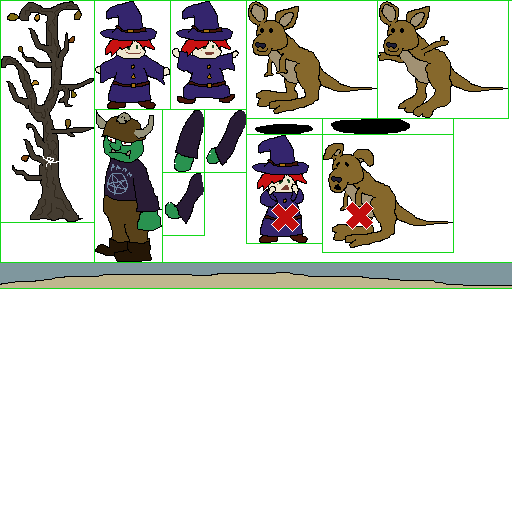
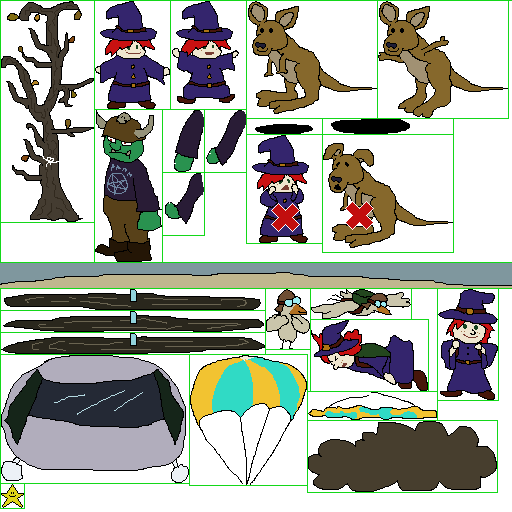
parachute contest

Changed region(s): [[0.0, 0.5625, 1.0, 1.0], [0.4688, 0.875, 0.5, 0.9688]]

diff --git a/src/js/games/MgParachute.js b/src/js/games/MgParachute.js
@@ -1,0 +1,271 @@
+/* MgParachute.js
+ * Minigame where you jump out of a helicopter.
+ */
+ 
+import { VideoOut } from "../VideoOut.js";
+import { InputManager } from "../InputManager.js";
+import { DataService } from "../DataService.js";
+ 
+export class MgParachute {
+  static getDependencies() {
+    return [VideoOut, InputManager, DataService];
+  }
+  constructor(videoOut, inputManager, dataService) {
+    this.videoOut = videoOut;
+    this.inputManager = inputManager;
+    this.dataService = dataService;
+    
+    this.updateDuringSplashes = false;
+    this.actorName = "CHICKEN";
+    this.contestName = "A PARACHUTE CONTEST";
+    
+    this.srcbits = this.dataService.getImage(MgParachute.IMAGE_NAME);
+    this.cbComplete = () => {};
+    const midX = this.videoOut.canvas.width >> 1;
+    this.chopperLeft = midX - (MgParachute.IMAGE_BOUNDS.chopper[2] >> 1);
+    this.chopperTop = 20;
+    this.bladeLeft = midX - (MgParachute.IMAGE_BOUNDS.blade1[2] >> 1);
+    this.bladeTop = this.chopperTop - (MgParachute.IMAGE_BOUNDS.blade1[3] >> 1);
+    this.bladeFrameTime = 100;
+    this.groundY = this.videoOut.canvas.height - 10;
+    const dotMidX = Math.floor((this.videoOut.canvas.width * 1) / 5);
+    const chickenMidX = Math.floor((this.videoOut.canvas.width * 4) / 5);
+    this.dotFallLeft = dotMidX - (MgParachute.IMAGE_BOUNDS.dotFall[2] >> 1);
+    this.dotStandLeft = dotMidX - (MgParachute.IMAGE_BOUNDS.dotStand[2] >> 1);
+    this.dotFallTop = this.chopperTop + 20;
+    this.dotDeployAdjustY = -((MgParachute.IMAGE_BOUNDS.dotStand[3] - MgParachute.IMAGE_BOUNDS.dotFall[3]) >> 1);
+    this.dotChuteOpenLeft = dotMidX - (MgParachute.IMAGE_BOUNDS.chuteOpen[2] >> 1);
+    this.dotChuteOpenOffset = (MgParachute.IMAGE_BOUNDS.dotStand[3] >> 1) - MgParachute.IMAGE_BOUNDS.chuteOpen[3];
+    this.dotChuteDefunctLeft = dotMidX - (MgParachute.IMAGE_BOUNDS.chuteDefunct[2] >> 1);
+    this.dotChuteDefunctTop = this.groundY - MgParachute.IMAGE_BOUNDS.chuteDefunct[3] + 5;
+    this.dotTopFatal = this.groundY - MgParachute.IMAGE_BOUNDS.dotFall[3];
+    this.dotTopLand = this.groundY - MgParachute.IMAGE_BOUNDS.dotStand[3] + 10;
+    this.chickenFallLeft = chickenMidX - (MgParachute.IMAGE_BOUNDS.chickenFall[2] >> 1);
+    this.chickenStandLeft = chickenMidX - (MgParachute.IMAGE_BOUNDS.chickenStand[2] >> 1);
+    this.chickenFallTop = this.chopperTop + 40;
+    this.chickenDeployAdjustY = 0;
+    this.chickenChuteOpenLeft = chickenMidX - (MgParachute.IMAGE_BOUNDS.chuteOpen[2] >> 1);
+    this.chickenChuteOpenOffset = (MgParachute.IMAGE_BOUNDS.chickenStand[3] >> 1) - MgParachute.IMAGE_BOUNDS.chuteOpen[3];
+    this.chickenChuteDefunctLeft = chickenMidX - (MgParachute.IMAGE_BOUNDS.chuteDefunct[2] >> 1);
+    this.chickenChuteDefunctTop = this.groundY - MgParachute.IMAGE_BOUNDS.chuteDefunct[3] + 5;
+    this.chickenTopFatal = this.groundY - MgParachute.IMAGE_BOUNDS.chickenFall[3];
+    this.chickenTopLand = this.groundY - MgParachute.IMAGE_BOUNDS.chickenStand[3] + 5;
+    this.chickenDeployYEasy = this.chickenFallTop + ((this.chickenTopFatal - this.chickenFallTop) * 0.300);
+    this.chickenDeployYHard = this.chickenFallTop + ((this.chickenTopFatal - this.chickenFallTop) * 0.800);
+    this.crashLeft = dotMidX - (MgParachute.IMAGE_BOUNDS.explosion[2] >> 1);
+    this.crashRight = chickenMidX - (MgParachute.IMAGE_BOUNDS.explosion[2] >> 1);
+    this.crashTop = this.videoOut.canvas.height - MgParachute.IMAGE_BOUNDS.explosion[3];
+    this.starLeft = dotMidX - (MgParachute.IMAGE_BOUNDS.star[2] >> 1);
+    this.starRight = chickenMidX - (MgParachute.IMAGE_BOUNDS.star[2] >> 1);
+    this.starTop = this.videoOut.canvas.height >> 1;
+    this.fallRateOpen = 30; // pixel/sec; fp
+    this.fallRateStart = 20; // pixel/sec; fp
+    this.accelerationLow = 50; // pixel/sec**2; fp
+    this.accelerationHigh = 250; // pixel/sec**2; fp
+    this.waitTime = 500; // ms
+    this.farewellTime = 1500; // ms
+    
+    this.difficulty = 0.5;
+    this.elapsed = 0;
+    this.bladeFrame = 1; // 1..3
+    this.bladeFrameClock = 0;
+    this.dotTop = this.dotFallTop; // !! fp
+    this.chickenTop = this.chickenFallTop; // !! fp
+    this.dotState = "wait"; // "wait","fall","deploy","land","crash","gone"
+    this.chickenState = "wait"; // ''
+    this.fallRate = this.fallRateStart; // fp
+    this.acceleration = this.accelerationLow; // fp
+    this.waitClock = this.waitTime;
+    this.dotLandTime = 999999999;
+    this.chickenLandTime = 999999999;
+    this.farewellClock = 0;
+    this.winner = "retry"; // "retry","dot","chicken"
+    this.chickenDeployY = this.chickenDeployYHard;
+  }
+  
+  setup(difficulty, cbComplete) {
+    this.difficulty = difficulty;
+    this.cbComplete = cbComplete;
+    this.elapsed = 0;
+    this.bladeFrame = 1;
+    this.bladeFrameClock = 0;
+    this.dotTop = this.dotFallTop;
+    this.chickenTop = this.chickenFallTop;
+    this.dotState = "wait";
+    this.chickenState = "wait";
+    this.fallRate = this.fallRateStart;
+    this.acceleration = this.accelerationLow * (1 - difficulty) + this.accelerationHigh * difficulty;
+    this.waitClock = this.waitTime;
+    this.dotLandTime = 999999999;
+    this.chickenLandTime = 999999999;
+    this.farewellClock = 0;
+    this.winner = "retry";
+    this.chickenDeployY = this.chickenDeployYEasy * (1 - difficulty) + this.chickenDeployYHard * difficulty;
+  }
+  
+  start() {
+  }
+  
+  update(interval, inputState) {
+    this.elapsed += interval;
+    
+    // Animate blades no matter what. It would be devastating if they were to stop spinning.
+    if ((this.bladeFrameClock -= interval) <= 0) {
+      this.bladeFrameClock += this.bladeFrameTime;
+      if (++(this.bladeFrame) > 3) this.bladeFrame = 1;
+    }
+    
+    // If we're waiting, that's all.
+    if (this.waitClock > 0) {
+      if ((this.waitClock -= interval) <= 0) {
+        this.waitClock = 0;
+        this.dotState = "fall";
+        this.chickenState = "fall";
+      }
+      return;
+    }
+    
+    // Farewell?
+    if (this.farewellClock) {
+      if ((this.farewellClock -= interval) <= 0) {
+        switch (this.winner) {
+          case "dot": this.cbComplete(true); break;
+          case "chicken": this.cbComplete(false); break;
+          // It's not generally legal to call setup() again, but ok for us since we know start() is noop and we don't track during splashes.
+          default: this.setup(this.difficulty, this.cbComplete);
+        }
+      }
+      return;
+    }
+    
+    // Determine velocity for any object in freefall.
+    this.fallRate += (this.acceleration * interval) / 1000;
+    const freeFallDY = (this.fallRate * interval) / 1000;
+    
+    switch (this.dotState) {
+      case "fall": {
+          if (inputState & InputManager.BTN_A) {
+            this.dotState = "deploy";
+            this.dotTop += this.dotDeployAdjustY;
+          } else {
+            this.dotTop += freeFallDY;
+            if (this.dotTop >= this.dotTopFatal) {
+              this.dotState = "crash";
+            }
+          }
+        } break;
+      case "deploy": {
+          this.dotTop += (this.fallRateOpen * interval) / 1000;
+          if (this.dotTop >= this.dotTopLand) {
+            this.dotTop = this.dotTopLand;
+            this.dotState = "land";
+            this.dotLandTime = this.elapsed;
+          }
+        } break;
+    }
+    
+    switch (this.chickenState) {
+      case "fall": {
+          if (this.chickenTop >= this.chickenDeployY) {
+            this.chickenState = "deploy";
+            this.chickenTop += this.chickenDeployAdjustY;
+          } else {
+            this.chickenTop += freeFallDY;
+            if (this.chickenTop >= this.chickenTopFatal) {
+              this.chickenState = "crash";
+            }
+          }
+        } break;
+      case "deploy": {
+          this.chickenTop += (this.fallRateOpen * interval) / 1000;
+          if (this.chickenTop >= this.chickenTopLand) {
+            this.chickenTop = this.chickenTopLand;
+            this.chickenState = "land";
+            this.chickenLandTime = this.elapsed;
+          }
+        } break;
+    }
+    
+    if (this.dotState === "land") {
+      if (this.chickenState === "land") { // whoever landed first wins. dot is taller, so she can actually deploy after the chicken and win
+        this.winner = (this.dotLandTime <= this.chickenLandTime) ? "dot" : "chicken";
+        this.farewellClock = this.farewellTime;
+      } else if (this.chickenState === "crash") {
+        this.winner = "dot";
+        this.farewellClock = this.farewellTime;
+      }
+    } else if (this.dotState === "crash") {
+      if (this.chickenState === "land") {
+        this.winner = "chicken";
+        this.farewellClock = this.farewellTime;
+      } else if (this.chickenState === "crash") { // both crashed. restart. This shouldn't happen; the chicken always deploys
+        this.winner = "retry";
+        this.farewellClock = this.farewellTime;
+      }
+    }
+  }
+  
+  render() {
+    this.videoOut.fillRect(0, 0, this.videoOut.canvas.width, this.videoOut.canvas.height, MgParachute.BGCOLOR);
+    this.videoOut.fillRect(0, this.groundY, this.videoOut.canvas.width, this.videoOut.canvas.height, MgParachute.GROUND_COLOR);
+    
+    this.videoOut.blitDecal(this.chopperLeft, this.chopperTop, this.srcbits, MgParachute.IMAGE_BOUNDS.chopper, 0);
+    switch (this.bladeFrame) {
+      case 1: this.videoOut.blitDecal(this.bladeLeft, this.bladeTop, this.srcbits, MgParachute.IMAGE_BOUNDS.blade1, 0); break;
+      case 2: this.videoOut.blitDecal(this.bladeLeft, this.bladeTop, this.srcbits, MgParachute.IMAGE_BOUNDS.blade2, 0); break;
+      case 3: this.videoOut.blitDecal(this.bladeLeft, this.bladeTop, this.srcbits, MgParachute.IMAGE_BOUNDS.blade3, 0); break;
+    }
+    
+    const dotTop = Math.round(this.dotTop);
+    switch (this.dotState) {
+      case "fall": this.videoOut.blitDecal(this.dotFallLeft, dotTop, this.srcbits, MgParachute.IMAGE_BOUNDS.dotFall, 0); break;
+      case "deploy": {
+          this.videoOut.blitDecal(this.dotChuteOpenLeft, dotTop + this.dotChuteOpenOffset, this.srcbits, MgParachute.IMAGE_BOUNDS.chuteOpen, 0);
+          this.videoOut.blitDecal(this.dotStandLeft, dotTop, this.srcbits, MgParachute.IMAGE_BOUNDS.dotStand, 0);
+        } break;
+      case "land": {
+          this.videoOut.blitDecal(this.dotChuteDefunctLeft, this.dotChuteDefunctTop, this.srcbits, MgParachute.IMAGE_BOUNDS.chuteDefunct, 0);
+          this.videoOut.blitDecal(this.dotStandLeft, dotTop, this.srcbits, MgParachute.IMAGE_BOUNDS.dotStand, 0);
+        } break;
+      case "crash": this.videoOut.blitDecal(this.crashLeft, this.crashTop, this.srcbits, MgParachute.IMAGE_BOUNDS.explosion, 0); break;
+    }
+    const chickenTop = Math.round(this.chickenTop);
+    switch (this.chickenState) {
+      case "fall": this.videoOut.blitDecal(this.chickenFallLeft, chickenTop, this.srcbits, MgParachute.IMAGE_BOUNDS.chickenFall, 0); break;
+      case "deploy": {
+          this.videoOut.blitDecal(this.chickenChuteOpenLeft, chickenTop + this.chickenChuteOpenOffset, this.srcbits, MgParachute.IMAGE_BOUNDS.chuteOpen, 0);
+          this.videoOut.blitDecal(this.chickenStandLeft, chickenTop, this.srcbits, MgParachute.IMAGE_BOUNDS.chickenStand, 0);
+        } break;
+      case "land": {
+          this.videoOut.blitDecal(this.chickenChuteDefunctLeft, this.chickenChuteDefunctTop, this.srcbits, MgParachute.IMAGE_BOUNDS.chuteDefunct, 0);
+          this.videoOut.blitDecal(this.chickenStandLeft, chickenTop, this.srcbits, MgParachute.IMAGE_BOUNDS.chickenStand, 0);
+        } break;
+      case "crash": this.videoOut.blitDecal(this.crashRight, this.crashTop, this.srcbits, MgParachute.IMAGE_BOUNDS.explosion, 0); break;
+    }
+    if ((this.dotLandTime < this.elapsed) && (this.dotLandTime < this.chickenLandTime)) {
+      this.videoOut.blitDecal(this.starLeft, this.starTop, this.srcbits, MgParachute.IMAGE_BOUNDS.star, 0);
+    } else if (this.chickenLandTime < this.elapsed) {
+      this.videoOut.blitDecal(this.starRight, this.starTop, this.srcbits, MgParachute.IMAGE_BOUNDS.star, 0);
+    }
+  }
+}
+
+MgParachute.IMAGE_NAME = "./img/mg02.png";
+
+MgParachute.BGCOLOR = "#a0b0c0";
+MgParachute.GROUND_COLOR = "#008020";
+
+MgParachute.IMAGE_BOUNDS = {
+  blade1: [1, 289, 264, 21], // blades are all same size
+  blade2: [1, 311, 264, 21],
+  blade3: [1, 333, 264, 21],
+  chopper: [1, 355, 188, 128],
+  chickenFall: [311, 289, 100, 30],
+  chickenStand: [266, 289, 44, 60],
+  dotFall: [311, 320, 117, 71],
+  dotStand: [438, 289, 60, 111],
+  chuteOpen: [190, 355, 117, 130],
+  chuteDefunct: [308, 392, 129, 28],
+  explosion: [308, 421, 189, 71],
+  star: [1, 484, 23, 24],
+};

diff --git a/src/js/InputManager.js b/src/js/InputManager.js
@@ -100,7 +100,7 @@ export class InputManager {
    ***************************************************************************/
    
   _onGamepad(event) {
-    console.log(`InputManager._onGamepad`, event);
+    //console.log(`InputManager._onGamepad`, event);
     switch (event.type) {
       case "gamepadconnected": {
           this.gamepads[event.gamepad.index] = {
@@ -156,8 +156,23 @@ export class InputManager {
         const nv = dev.buttons[i].value;
         if (ov === nv) continue;
         gp.buttons[i] = nv;
-        if (nv) this._setButton((i & 1) ? InputManager.BTN_B : InputManager.BTN_A, 1);
-        else this._setButton((i & 1) ? InputManager.BTN_B : InputManager.BTN_A, 0);
+        
+        // Hard-coding some values for Xbox 360 joysticks, Linux Chrome.
+        // Being a POC, I won't bother generalizing mapping.
+        let dstbtnid = 0;
+        switch (i) {
+          case 12: dstbtnid = InputManager.BTN_UP; break;
+          case 13: dstbtnid = InputManager.BTN_DOWN; break;
+          case 14: dstbtnid = InputManager.BTN_LEFT; break;
+          case 15: dstbtnid = InputManager.BTN_RIGHT; break;
+          case 0: dstbtnid = InputManager.BTN_A; break;
+          case 2: dstbtnid = InputManager.BtN_B; break;
+          default: dstbtnid = (i & 1) ? InputManager.BTN_B : InputManager.BTN_A;
+        }
+        if (!dstbtnid) continue;
+        
+        if (nv) this._setButton(dstbtnid, 1);
+        else this._setButton(dstbtnid, 0);
       }
     }
   }

diff --git a/src/js/MinigameFactory.js b/src/js/MinigameFactory.js
@@ -5,8 +5,8 @@ import { Injector } from "./Injector.js";
 import { MgFlapping } from "./games/MgFlapping.js";
 import { MgStirring } from "./games/MgStirring.js";
 import { MgJumprope } from "./games/MgJumprope.js";
-/*TODO
 import { MgParachute } from "./games/MgParachute.js";
+/*TODO
 import { MgUmbrella } from "./games/MgUmbrella.js";
 import { MgSwearing } from "./games/MgSwearing.js";
 import { MgDoding } from "./games/MgDodging.js";
@@ -60,11 +60,13 @@ MinigameFactory.singleton = true;
  * Each implementation has an id based on its index here.
  */
 MinigameFactory.implementations = [
+  /**/
   MgFlapping,
   MgStirring,
   MgJumprope,
-  /*TODO
   MgParachute,
+  /**/
+  /*TODO
   MgUmbrella,
   MgSwearing,
   MgDodging,

diff --git a/src/index.html b/src/index.html
@@ -10,7 +10,8 @@
   <canvas id="mainview"></canvas>
   <div id="instructions">
     Arrow keys, Z, X.<br/>
-    Click in frame to hard-pause. No resume; clicking again will reset.<br/>
+    Gamepad? If it doesn't work, season src/js/InputManager.js to taste.<br/>
+    Click in frame to terminate; clicking again will reset.<br/>
     Encounters begin every 5 steps and cycle among the defined minigames.<br/>
     Graphics are entirely temporary, if that wasn't obvious ;)<br/>
   </div>

diff --git a/README.md b/README.md
@@ -19,7 +19,7 @@
 - - [x] Flapping
 - - [x] Stirring
 - - [x] Jumprope
-- - [ ] Parachute
+- - [x] Parachute
 - - [ ] Umbrella
 - - [ ] Swearing
 - - [ ] Dodging
@@ -27,3 +27,4 @@
 - - [ ] Rollerskates
 - - [ ] Traffic
 - - [ ] Levitation
+- [ ] Pick game+difficulty manually
